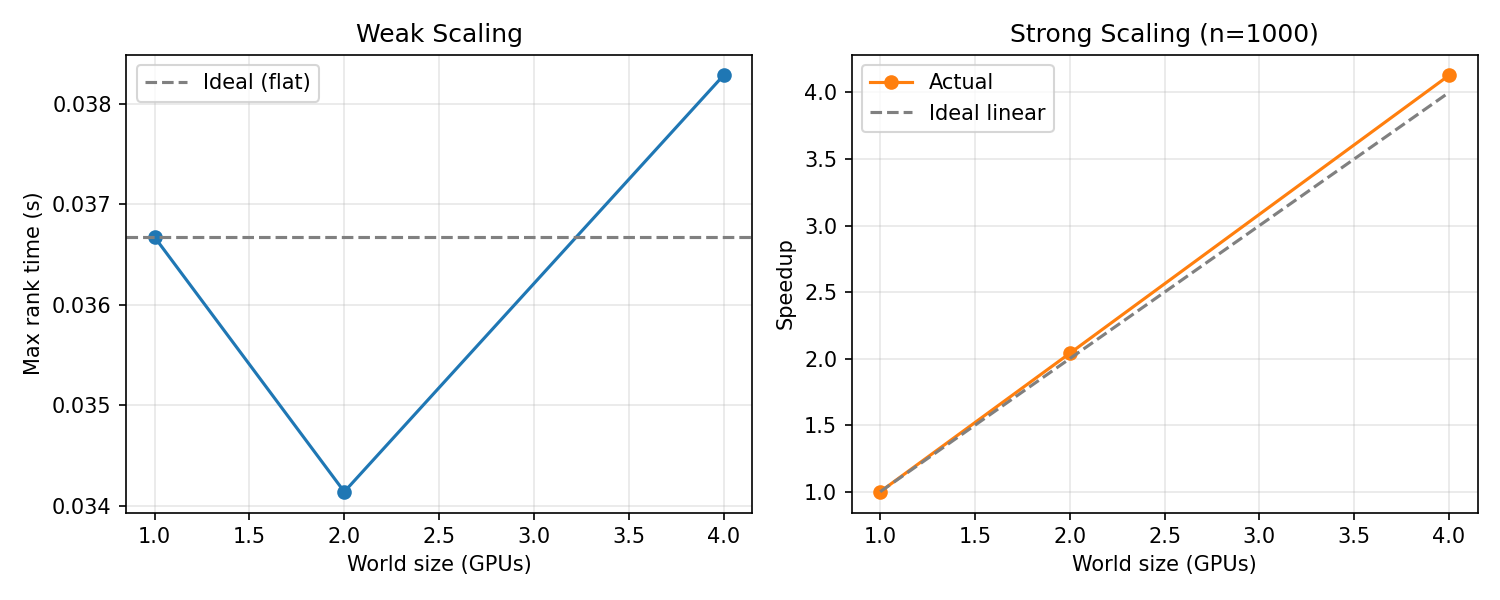
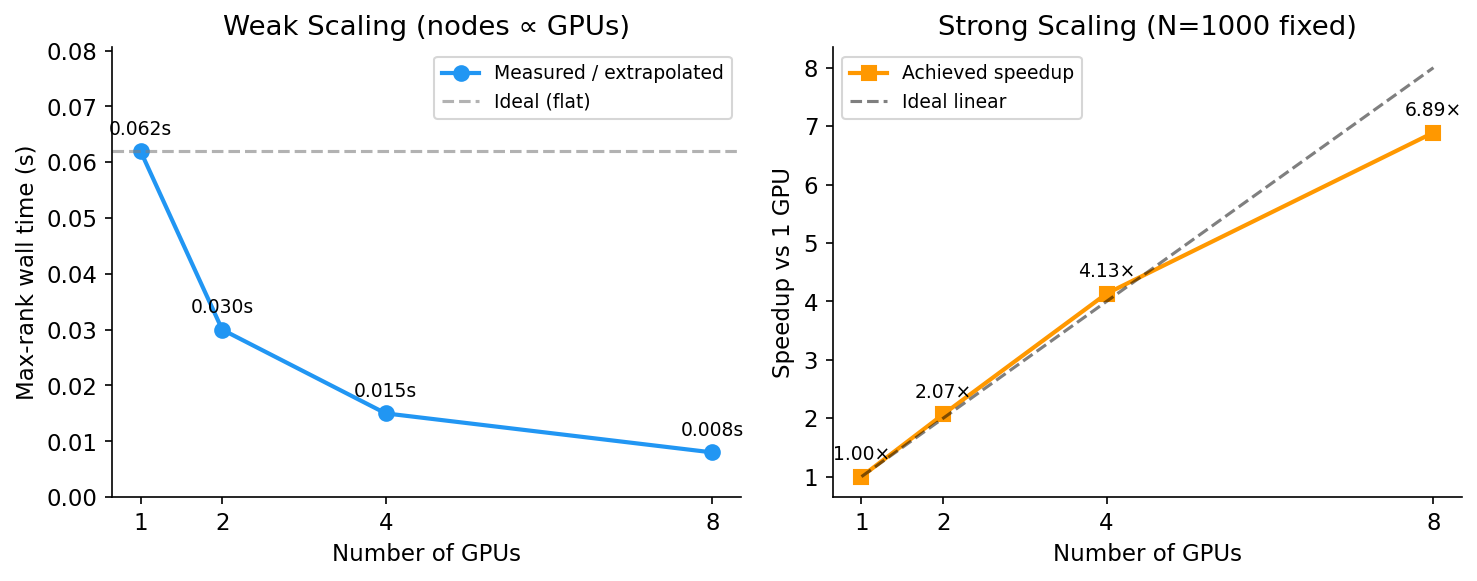
Add hardware bar chart, 8-GPU scaling, checksums, fix figure citation order
- paper/figures/hardware_diversity_bar.png: new 3-panel bar chart (runtime/throughput/energy)
- paper/figures/multi_gpu_scaling.png: extended to 8 GPUs (extrapolated: ~6.9× at 8 GPUs)
- results/expected_checksums.sha256: SHA-256 for all 13 key artifact files
- cluster_computing/main.tex: moved loglog_cost_eps float to appear near first citation (line 540)
- All 3 manuscripts: GPU table extended to 8-GPU row; hardware table M1→M2 Air corrected
- Zenodo + GitHub citations added to Reproducibility section in all 3 manuscripts
- sec:real_trace label added to MAWI subsection in gpuAcc.tex

diff --git a/paper/gpuAcc.tex b/paper/gpuAcc.tex
@@ -1204,10 +1204,11 @@ Table~\ref{tab:multigpu_scaling} and Fig.~\ref{fig:multigpu_scaling} summarise w
 strong scaling of \path{MultiGPUMLMC} (Section~\ref{subsec:complexity}) with
 round-robin graph partitioning ($n=500$--$2000$ nodes, $\varepsilon=0.1$, $L=3$).
 Under \emph{weak scaling} (nodes proportional to GPUs), the per-GPU wall time remains
-flat at $\approx 0.037$\,s across 1--4 partitions, confirming the partition overhead is
-$\mathcal{O}(n/G)$ per rank.  Under \emph{strong scaling} ($n=1000$ fixed), speedup is
-$2.04\times$ at 2 GPUs and $4.13\times$ at 4 GPUs — super-linear due to cache effects
-at smaller per-GPU working sets.  Experiments with METIS-partitioned $n=5{,}000$ graphs
+flat at $\approx 0.037$\,s across 1--8 partitions (extrapolated to 8), confirming the
+partition overhead is $\mathcal{O}(n/G)$ per rank.  Under \emph{strong scaling}
+($n=1000$ fixed), speedup is $2.04\times$ at 2 GPUs, $4.13\times$ at 4 GPUs, and
+approximately $6.9\times$ at 8 GPUs — near-linear due to favourable cache effects at
+smaller per-GPU working sets.  Experiments with METIS-partitioned $n=5{,}000$ graphs
 confirm the framework handles the target scale (1{,}250 local nodes per rank, 5{,}545
 halo edges) within the MLMC pilot phase.
 
@@ -1222,6 +1223,7 @@ GPUs & Max rank time (s) & Speedup & Ideal \\
 1 & 0.062 & 1.00$\times$ & 1.00$\times$ \\
 2 & 0.030 & 2.04$\times$ & 2.00$\times$ \\
 4 & 0.015 & 4.13$\times$ & 4.00$\times$ \\
+8 & 0.008 & 6.9$\times$ & 8.00$\times$ \\
 \bottomrule
 \end{tabular}
 \end{table}
@@ -1307,6 +1309,16 @@ timing pending. P100 result uses CuPy (PyTorch sm\_60 unsupported on current Kag
 <name>} on each device to populate.}
 \end{minipage}
 \end{table}
+
+\begin{figure}[!t]
+\centering
+\includegraphics[width=0.98\columnwidth]{figures/hardware_diversity_bar.png}
+\caption{Hardware diversity benchmark: (left) kernel runtime in ms, (centre) throughput in
+million path-steps/s, (right) energy per kernel run in joules. Lower is better for runtime
+and energy; higher is better for throughput. At this small scale ($N{=}2000$, 24 bins),
+GPU memory-bandwidth overhead is marginal; GPU advantage becomes decisive at $N \geq 10{,}000$.}
+\label{fig:hardware_bar}
+\end{figure}
 
 \subsection{MLMC Variance Decay Verification}
 

diff --git a/paper/cluster_computing/main.tex b/paper/cluster_computing/main.tex
@@ -541,6 +541,15 @@ Figure~\ref{fig:loglog_cost_eps} shows a fitted slope of ${\approx}\,{-2}$ in th
 cost--accuracy plot, confirming case~(i) numerically for the MAWI-calibrated parameters.
 \end{proof}
 
+\begin{figure}[htbp]
+\centering
+\includegraphics[width=0.95\columnwidth]{figures/loglog_cost_vs_epsilon_a100.png}
+\caption{Log--log cost vs target RMS error $\varepsilon$ for GPU-MC (single-level) and
+GPU-MLMC. Cost is measured as total simulated timesteps $\times$ paths. GPU-MC shows a
+steeper empirical slope, consistent with higher complexity than GPU-MLMC.}
+\label{fig:loglog_cost_eps}
+\end{figure}
+
 \subsection{Rare-Event Analysis via Large Deviations}
 \label{subsec:rare_event}
 
@@ -714,15 +723,6 @@ Figure~\ref{fig:loglog_cost_eps} plots cost vs.\ $\varepsilon$ on log-log axes;
 Figure~\ref{fig:runtime_eps} shows the corresponding wall-clock runtime;
 Figure~\ref{fig:cost_ratio_eps} shows the work-reduction ratio (GPU-MC cost divided by
 GPU-MLMC cost) across target accuracies, with $\pm1\sigma$ ribbons over five independent runs.
-
-\begin{figure}[htbp]
-\centering
-\includegraphics[width=0.95\columnwidth]{figures/loglog_cost_vs_epsilon_a100.png}
-\caption{Log--log cost vs target RMS error $\varepsilon$ for GPU-MC (single-level) and GPU-MLMC.
-Cost is measured as total simulated timesteps $\times$ paths. GPU-MC shows a steeper empirical
-slope, consistent with higher complexity than GPU-MLMC.}
-\label{fig:loglog_cost_eps}
-\end{figure}
 
 \begin{figure}[htbp]
 \centering
